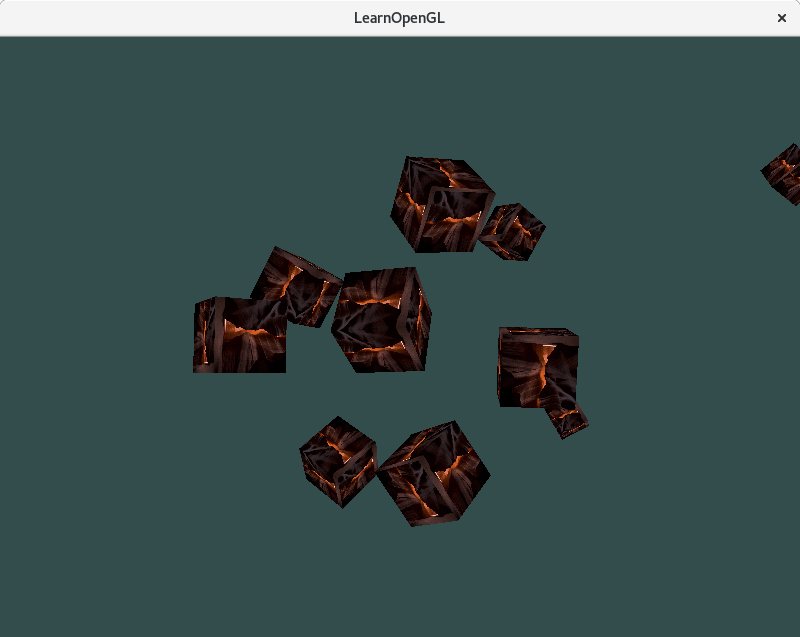
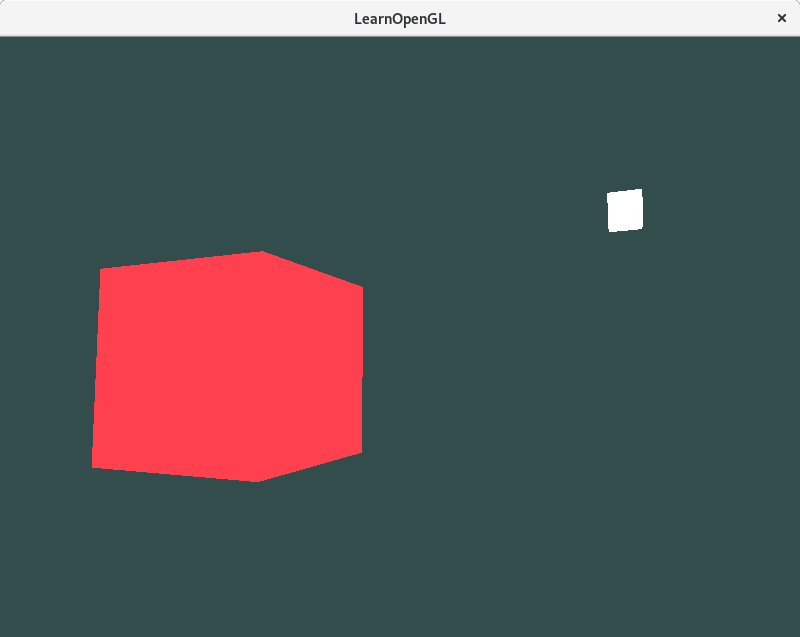
Updating readme and screenshot

diff --git a/README.md b/README.md
@@ -18,7 +18,7 @@ I will have a branch per chapter to track what the code is as of that chapter, a
   - [x] Projections and coordinate systems
   - [x] Adding a Camera class to the project
 - [ ] Chapter 04 - Effects of lighting, materials, and lightmaps
-  - [ ] Adding an object and a light source
+  - [x] Adding an object and a light source
   - [ ] Lighting up objects
   - [ ] Materials
   - [ ] Lightmaps
